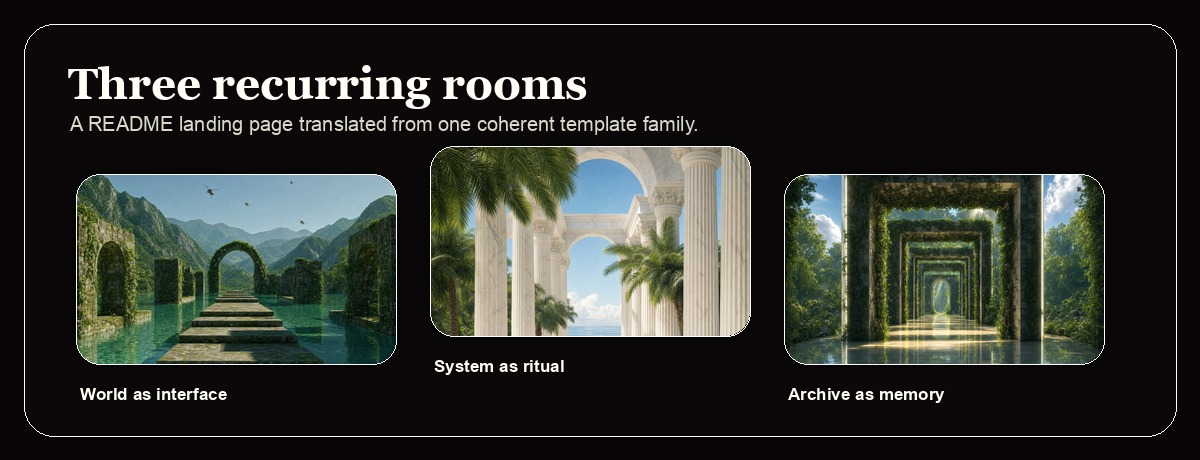
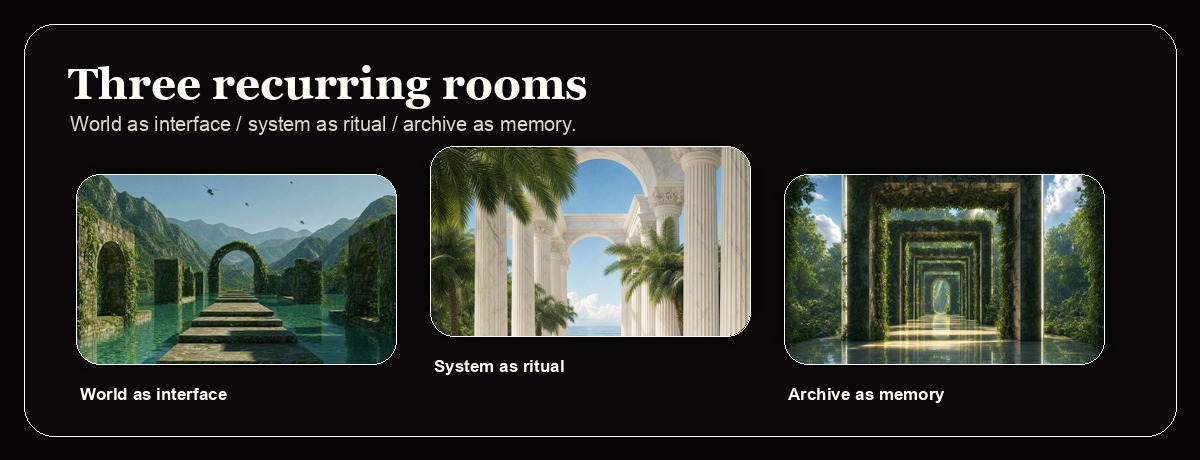
Remove README process language
Clean public-facing README copy and generated visuals so the profile no longer leaks template, generation, or MotionSites reference language.

Changed region(s): [[0.0617, 0.2435, 0.5858, 0.3043]]

diff --git a/scripts/update_public_work_index.py b/scripts/update_public_work_index.py
@@ -65,6 +65,8 @@ FIELDS = [
     },
 ]
 
+PUBLIC_ANCHOR_EXCLUDES = {"sheshiyer", "motionsites-skills"}
+
 
 def shell_json(command: list[str]) -> object:
     output = subprocess.check_output(command, cwd=ROOT, text=True)
@@ -198,14 +200,14 @@ def generate_markdown(repos: list[dict[str, object]]) -> str:
     lines.append("| --- | ---: | --- | --- |")
     for field in FIELDS:
         bucket = by_field[field["name"]]
-        anchor_pool = [repo for repo in bucket if str(repo["name"]).lower() != profile_name]
+        anchor_pool = [repo for repo in bucket if str(repo["name"]).lower() not in PUBLIC_ANCHOR_EXCLUDES]
         anchors = ", ".join(repo_link(repo) for repo in anchor_pool[:4]) or "N/A"
         lines.append(f"| {field['name']} | {len(bucket)} | {anchors} | {field['pattern']} |")
 
     recent = [
         repo
         for repo in sorted(repos, key=lambda item: str(item.get("updated_at") or ""), reverse=True)
-        if str(repo["name"]).lower() != profile_name
+        if str(repo["name"]).lower() not in PUBLIC_ANCHOR_EXCLUDES
     ][:8]
     lines.append("")
     lines.append("## Recent public movement")
@@ -302,9 +304,9 @@ def generate_svg(repos: list[dict[str, object]]) -> str:
   <rect width="1200" height="760" rx="30" filter="url(#grain)" opacity="0.42"/>
   <rect x="28" y="28" width="1144" height="704" rx="22" fill="none" stroke="#E1E0CC" stroke-opacity="0.12"/>
 
-  <text class="mono" x="72" y="78" fill="#DEDBC8" font-size="13">PUBLIC WORK INDEX / WEEKLY METADATA SNAPSHOT</text>
+  <text class="mono" x="72" y="78" fill="#DEDBC8" font-size="13">PUBLIC WORK INDEX / SIX OPERATING FIELDS</text>
   <text class="title" x="72" y="124" fill="#E1E0CC" font-size="42">{len(repos)} public repositories across six operating fields.</text>
-  <text class="body" x="72" y="158" fill="#A9A797" font-size="18">A static field index generated from public repository metadata.</text>
+  <text class="body" x="72" y="158" fill="#A9A797" font-size="18">A living map of rooms, tools, runtimes, archives, and trust surfaces.</text>
   <rect x="72" y="198" width="1056" height="1" fill="#E1E0CC" fill-opacity="0.16"/>
 {''.join(rows)}
 </svg>

diff --git a/README.md b/README.md
@@ -54,7 +54,7 @@ That substrate appears here as venture operators, brand foundries, local agent r
 | Room | What it holds | Public evidence |
 | --- | --- | --- |
 | World as interface | Spatial systems, property viewers, portals, panorama tools. | [`vantyx`](https://github.com/Sheshiyer/vantyx), [`marina1-k`](https://github.com/Sheshiyer/marina1-k), [`newsense-spatial`](https://github.com/Sheshiyer/newsense-spatial) |
-| System as ritual | Operators, skill clusters, generated brand systems, local runtimes. | [`cambium`](https://github.com/Sheshiyer/cambium), [`brandmint-oracle-aleph`](https://github.com/Sheshiyer/brandmint-oracle-aleph), [`temperance_engine`](https://github.com/Sheshiyer/temperance_engine) |
+| System as ritual | Operators, skill clusters, brand systems, local runtimes. | [`cambium`](https://github.com/Sheshiyer/cambium), [`brandmint-oracle-aleph`](https://github.com/Sheshiyer/brandmint-oracle-aleph), [`temperance_engine`](https://github.com/Sheshiyer/temperance_engine) |
 | Archive as memory | Narrative engines, research surfaces, symbolic vaults. | [`synchronocities-blog`](https://github.com/Sheshiyer/synchronocities-blog), [`Somatic-Canticles`](https://github.com/Sheshiyer/Somatic-Canticles), [`wtfmedia`](https://github.com/Sheshiyer/wtfmedia) |
 
 <img src="assets/atlas.svg" alt="Public work index organized by venture operations, reflection runtimes, spatial systems, trust surfaces, narrative archives, and toolmaking" width="100%" />
@@ -69,20 +69,20 @@ That substrate appears here as venture operators, brand foundries, local agent r
 | Spatial systems | 11 | [`vantyx`](https://github.com/Sheshiyer/vantyx), [`marina1-k`](https://github.com/Sheshiyer/marina1-k), [`newsense-spatial`](https://github.com/Sheshiyer/newsense-spatial), [`dashboard-0.1-coproperty`](https://github.com/Sheshiyer/dashboard-0.1-coproperty) | Place is treated as interface: mapped, navigable, and operational. |
 | Trust surfaces | 13 | [`fitcheck-landing`](https://github.com/Sheshiyer/fitcheck-landing), [`klear-karma-website-v2`](https://github.com/Sheshiyer/klear-karma-website-v2), [`kkv2-astro-wiki`](https://github.com/Sheshiyer/kkv2-astro-wiki), [`tirakplus`](https://github.com/Sheshiyer/tirakplus) | Trust surfaces carry consent, verification, and cultural context. |
 | Narrative archives | 21 | [`synchronocities-blog`](https://github.com/Sheshiyer/synchronocities-blog), [`somatic-canticles-bm-wiki`](https://github.com/Sheshiyer/somatic-canticles-bm-wiki), [`wtfmedia`](https://github.com/Sheshiyer/wtfmedia), [`somatic-canticles-v3-book-trilogy`](https://github.com/Sheshiyer/somatic-canticles-v3-book-trilogy) | Archives hold story, research, media, and ritual without flattening them. |
-| Toolmaking | 99 | [`motionsites-skills`](https://github.com/Sheshiyer/motionsites-skills), [`plexus-ts`](https://github.com/Sheshiyer/plexus-ts), [`framer-plugin-mcp`](https://github.com/Sheshiyer/framer-plugin-mcp), [`skill-clusters`](https://github.com/Sheshiyer/skill-clusters) | Expert workflows become portable without shaving off the practice. |
+| Toolmaking | 99 | [`plexus-ts`](https://github.com/Sheshiyer/plexus-ts), [`framer-plugin-mcp`](https://github.com/Sheshiyer/framer-plugin-mcp), [`skill-clusters`](https://github.com/Sheshiyer/skill-clusters), [`professional-headshot-suite`](https://github.com/Sheshiyer/professional-headshot-suite) | Expert workflows become portable without shaving off the practice. |
 
 ## Recent public movement
 
 | Repository | Field | Language | Focus |
 | --- | --- | --- | --- |
 | [`cambium`](https://github.com/Sheshiyer/cambium) | Venture operations | TypeScript | Cambium - the autonomous, on-brand venture operator. Free build, paid taste. Umbrella for the brandmint... |
-| [`motionsites-skills`](https://github.com/Sheshiyer/motionsites-skills) | Toolmaking | HTML | Catalogued MotionSites.ai prompt-template library (265 templates) + a rate-limited, resumable... |
 | [`fitcheck-landing`](https://github.com/Sheshiyer/fitcheck-landing) | Trust surfaces | TypeScript | Fitcheck - AI virtual try-on launch landing for Shopify fashion brands. Zero-dep static site... |
 | [`synchronocities-blog`](https://github.com/Sheshiyer/synchronocities-blog) | Narrative archives | TypeScript | A 55-day mythic journey through Thailand told as a depth-scrolling tarot gallery. 20 unique card... |
 | [`plexus-ts`](https://github.com/Sheshiyer/plexus-ts) | Toolmaking | TypeScript | Plexus - Thoughtseed member runtime (Listener/Runner/State + bridge client). Electron app per... |
 | [`framer-plugin-mcp`](https://github.com/Sheshiyer/framer-plugin-mcp) | Toolmaking | JavaScript | A Model Context Protocol (MCP) server for creating and managing Framer plugins with web3 capabilities |
 | [`temperance_engine`](https://github.com/Sheshiyer/temperance_engine) | Venture operations | Shell | Public installer for a local PAI operator runtime with skill-cluster routing, optional peon-ping voice... |
 | [`snow-gloves-os`](https://github.com/Sheshiyer/snow-gloves-os) | Venture operations | Shell | Snow Gloves OS - hand-in-glove business operations orchestration with connectors, interpretation, and... |
+| [`brandmint-oracle-aleph`](https://github.com/Sheshiyer/brandmint-oracle-aleph) | Venture operations | Python | Brand identity orchestration: strategy visuals publishing. Wave-based pipeline with asset fidelity... |
 
 <details>
 <summary><b>Public language profile</b></summary>
@@ -92,8 +92,8 @@ That substrate appears here as venture operators, brand foundries, local agent r
 | --- | ---: |
 | TypeScript | 71 |
 | JavaScript | 22 |
-| Python | 20 |
-| Unspecified | 19 |
+| Python | 21 |
+| Unspecified | 18 |
 | HTML | 13 |
 | Astro | 9 |
 | Shell | 7 |
